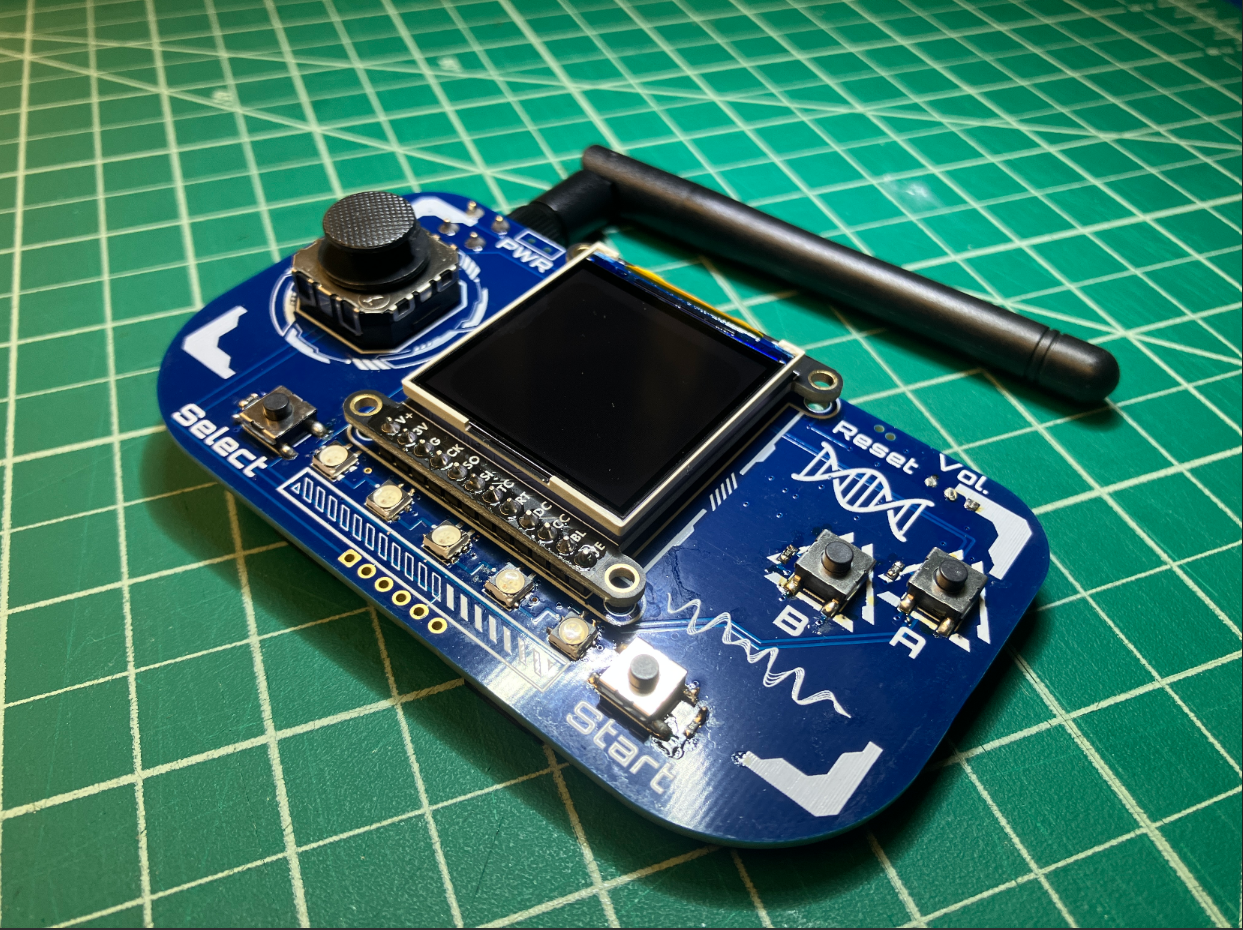
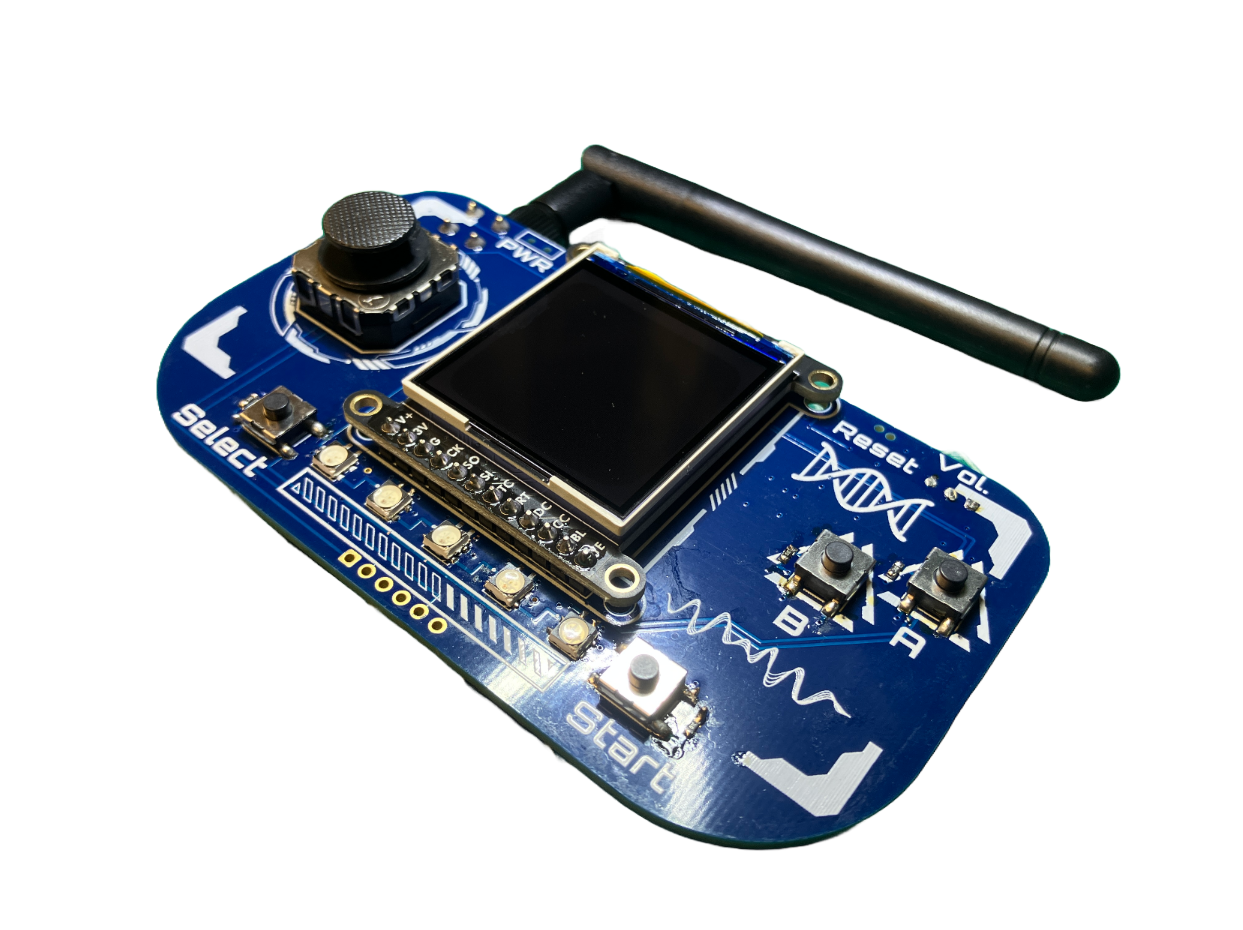
Removed background from image and updated readme

diff --git a/README.md b/README.md
@@ -2,8 +2,6 @@
 
 ![R.I.C.K Top](Photos/R.I.C.K-V1-Top.png)
 
-[3D Model](https://a360.co/3PfHDWk)!
-
 ## Description
 
 The Robotic Insect Control Keypad (R.I.C.K.) is a programmable wireless controller based on the powerful ESP32-S3 WiFi/BLE capable MCU. The controller features a two axis joystick, four buttons, five NeoPixel LEDs, a 240x240 pixel TFT backlit display, speaker, accelerometer and a 400 mAh battery for portable play. The board is intended for use in controlling quadripedal robots or it can be used as an arcade platform for game development. Our lab (Animal Inspired Motion and Robotics Lab) will is currently using this controller during demos of our robot platforms.
@@ -16,7 +14,6 @@ The Robotic Insect Control Keypad (R.I.C.K.) is a programmable wireless controll
 4. Integrated DAC, 2.5W amplifier and speaker
 5. Three axis accelerometer
 6.  400 mAh LiPo battery
-
 
 ## Software
 
